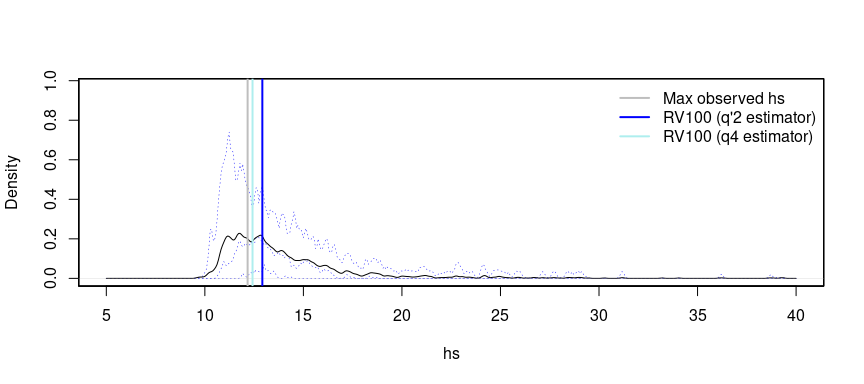
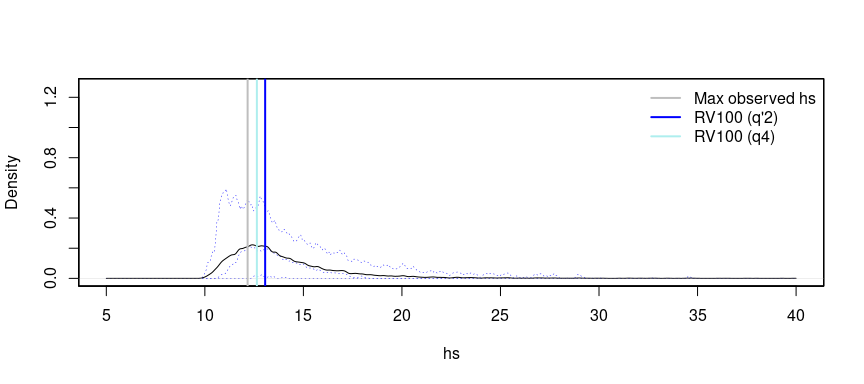
updated README

diff --git a/README.md b/README.md
@@ -42,14 +42,17 @@ formula_string <- paste(prime_varstr, "~ te(doy, Pdir, bs = c('cc', 'cc'), k = n
 peak_picking_thr_model_fml <- as.formula(formula_string)
 
 # decorrelation time scale of 1 day
-df_pick <- peak_picking(ds, peak_picking_thr_model_fml,
-                        decorrelation_time_scale = 1)
+system.time(df_pick <- peak_picking(ds, peak_picking_thr_model_fml,
+                                    decorrelation_time_scale = 1))
 ```
 
     ## [1] "apply threshold model to data"
     ## [1] "label storms"
     ## [1] "combine and relabel storm peaks that are too close"
     ## [1] "find peaks for combined storms"
+
+    ##    user  system elapsed 
+    ##  23.433   0.867  24.302
 
 ``` r
 # additional variables were added, i.e. exc, thr, and storm_idx
@@ -80,7 +83,7 @@ plot(density(ds$hs, bw=.1))
 
 ``` r
 # number of bootstrap/resampling steps
-nbstrp <- 20  # e.g. nbstrp = 20 for testing
+nbstrp <- 100  # e.g. nbstrp = 20 for testing
 
 system.time(res_bstrp <- run_bootstrap_storms_pots(df = df_pick$storms,
                                                    group_col = "storm_idx",
@@ -89,7 +92,7 @@ system.time(res_bstrp <- run_bootstrap_storms_pots(df = df_pick$storms,
 ```
 
     ##    user  system elapsed 
-    ##   2.654   0.002   2.662
+    ##  13.513   0.140  13.656
 
 ``` r
 bstrp_storms_lst <- res_bstrp$boot_samples
@@ -155,7 +158,7 @@ model_fml_thr[['tm2']] <- fml_ald_tm2
 model_fml_occ[['tm2']] <- fml_pp
 model_fml_gpd[['tm2']] <- fml_gpd
 
-
+syst <- system.time(
 models_margs <- fit_margs_bstrp(bstrp_pots_lst,
                                 model_fml_thr, model_fml_occ, model_fml_gpd,
                                 extr_thr=thr_range, nr_of_years,
@@ -165,6 +168,8 @@ models_margs <- fit_margs_bstrp(bstrp_pots_lst,
                                 nquad = 225,
                                 knots = knots,
                                 node_str_lst = node_str_lst)
+)
+print(syst)
 ```
 
 ## Simulate 100yr maxima
@@ -172,11 +177,15 @@ models_margs <- fit_margs_bstrp(bstrp_pots_lst,
 ``` r
 RP <- 100  # return period
 nmc <- 100  # number of mc samples for each bootstrap sample
+
+syst <- system.time(
 preds_margs_lst <- predict_margs(models_margs, nr_yrs_subdata, RP=RP,
                                  nmc = nmc, var_lst = c('hs','tm2'),
                  nbstrp = nbstrp,
                                  covarstr_lst = c('Pdir','doy'),
                                  grid_interval = list('Pdir'=1, 'doy'=1))
+)
+print(syst)
 ```
 
 ## Plot resulting simulated peaks
@@ -189,7 +198,7 @@ dhs <- diagnose_margs_preds_density(preds_margs_lst, 'hs', bw=.1, xlim=c(5,40))
 
     ## [1] "summary maxes:"
     ##    Min. 1st Qu.  Median    Mean 3rd Qu.    Max. 
-    ##   9.635  11.829  13.037  14.499  15.017 135.892
+    ##   9.852  12.102  13.262  14.180  15.086  87.324
 
 ``` r
 abline(v = max(df_pick$pots$hs), col = "gray", lwd = 2)
@@ -203,8 +212,8 @@ abline(v = rv100_q2p, col = "blue", lwd = 2)
 abline(v = rv100_q4, col = "paleturquoise2", lwd = 2)
 legend("topright",
        legend = c("Max observed hs",
-                  "RV100 (q'2 estimator)",
-                  "RV100 (q4 estimator)"),
+                  "RV100 (q'2)",
+                  "RV100 (q4)"),
        col = c("gray", "blue", "paleturquoise2"),
        lwd = 2,
        bty = "n")  # removes box around legend
@@ -218,6 +227,7 @@ legend("topright",
 # check various thresholds ###
 maxd_thr <- seq(.5,.98,.01)
 models_maxds_thr <- NULL
+syst <- system.time(
 for (t in seq_along(maxd_thr)){
  print(c('## t:', maxd_thr[t]))
  models_maxds_tmp <- fit_maxds_bstrp(bstrp_pots_lst,
@@ -226,6 +236,9 @@ for (t in seq_along(maxd_thr)){
                                      nbstrp=nbstrp)
  models_maxds_thr[[t]] <- models_maxds_tmp
 }
+)
+
+print(syst)
 ```
 
 ``` r
@@ -239,10 +252,14 @@ diagnose_maxds(models_maxds_thr, maxd_thr, 'hs', 'tm2', ylim=c(-1.5, 1.5))
 
 ``` r
 maxd_thr_range <- c(.6,.8)
+syst <- system.time(
 models_maxds <- fit_maxds_bstrp(bstrp_pots_lst,
                                 models_margs,
                                 maxd_thr,
                                 nbstrp = nbstrp)
+)
+
+print(syst)
 ```
 
 # Diagnose by comparing data against nsim HT2004 simulations
@@ -307,8 +324,8 @@ ggplot() +
   geom_bin2d(data = df_joint,  aes(x = df_joint$hs, y = df_joint$tm2), bins = 50) +
   scale_fill_gradient(low = "white", high = "blue") +  # Color gradient
   geom_density_2d(data = df_joint,  aes(x = df_joint$hs, y = df_joint$tm2), color = "red", size = 0.1, breaks = specific_levels) +  # Density lines
-  xlim(10, 21) +  # Extent in the x direction
-  ylim(5, 14) +  # Extent in the y direction
+  xlim(5, 25) +  # Extent in the x direction
+  ylim(4, 16) +  # Extent in the y direction
   labs(title = "HT2004 predictions",
        x = "Hs [m]",
        y = "Tm2 [s]",
@@ -344,14 +361,23 @@ nr_of_storms <- 100
 
 df_sim_in <- df_joint_pots[varlst_matching][1:nr_of_storms,]
 df_hist_in <- df_hist_pots[c("hs", "s_tm2", "doy" , "Pdir", "tm2", "storm_idx")]
+syst <- system.time(
 matched_storm_idx <- find_idx_closest_storm_peaks(df_sim_in, df_hist_in,
                                                   varlst = varlst_matching,
                                                   dist_fct_lst = dist_fct_lst,
                                                   dist_circ_L_lst = dist_circ_L_lst,
                                                   sidx = 1, eidx = 100)
+)
+
+print(syst)
 
 df_storms_filtered <- df_pick$storms[df_pick$storms$storm_idx %in% matched_storm_idx[1:nr_of_storms], ]
+
+syst <- system.time(
 res <- anchor_sim_storms(df_joint_pots, df_hist_pots, df_hist_storms, matched_storm_idx)
+)
+
+print(syst)
 ```
 
 ``` r
@@ -363,7 +389,7 @@ vis_sim_storms(res, storm_idx=10, xlim=c(0,13), ylim=c(0,20))
 
 ``` r
 # plot simulated peaks and storms
-show_sim_pop(res, xlim=c(2,15), ylim=c(0,25))
+show_sim_pop(res, xlim=c(2,15), ylim=c(0,23))
 ```
 
 ![](README_files/figure-gfm/unnamed-chunk-19-1.png)<!-- -->
@@ -375,12 +401,15 @@ show_sim_pop(res, xlim=c(2,15), ylim=c(0,25))
 hmax_r_lst <- NULL
 hmax_f_lst <- NULL
 hmax_p_lst <- NULL
+syst <- system.time(
 for (i in 1:length(unique(res$sim_storms$pseudo_storm_idx))){
   indiv_storm <- subset(res$sim_storms, pseudo_storm_idx == i)
   hmax_r_lst[[i]] <- storm_trajectory_Hmax(indiv_storm$hs, indiv_storm$tm2, 3600, dist='rayleigh', ulim=60)[1] # 1=mode, 2=mean
   hmax_f_lst[[i]] <- storm_trajectory_Hmax(indiv_storm$hs, indiv_storm$tm2, 3600, dist='forristall', ulim=60)[1] # 1=mode, 2=mean
   hmax_p_lst[[i]] <- storm_trajectory_Hmax(indiv_storm$hs, indiv_storm$tm2, 3600, dist='prevosto', ulim=60)[1] # 1=mode, 2=mean
-}
+})
+
+print(syst)
 
 hmax_dist_r <- unlist(hmax_r_lst)
 hmax_dist_f <- unlist(hmax_f_lst)
@@ -423,8 +452,8 @@ consider subregions on covariate parameter space (e.g. sector, season,
 ``` r
 # plot Hs against covariate parameter space doy and Pdir
 # Define your interval
-x_min_Pdir_high <- 200
-x_max_Pdir_high <- 250
+x_min_Pdir_high <- 180
+x_max_Pdir_high <- 230
 
 x_min_Pdir_low <- 130
 x_max_Pdir_low <- 180
@@ -475,13 +504,13 @@ RP_f_hmax_high <- quantile(unlist(hmax_sub_f_lst_high), exp(-1))
 ## Print results for low and high sector and omni
 
 ``` r
-cat(sprintf("Low sector: %.2f\n High sector: %.2f\n Omni: %.2f\n",
+cat(sprintf("Low sector: %.2f\nHigh sector: %.2f\nOmni: %.2f\n",
             RP_f_hmax_low, RP_f_hmax_high, RP_f_hmax))
 ```
 
-    ## Low sector: 13.86
-    ##  High sector: 21.50
-    ##  Omni: 21.80
+    ## Low sector: 14.21
+    ## High sector: 24.07
+    ## Omni: 24.60
 
 ## Notes
 
